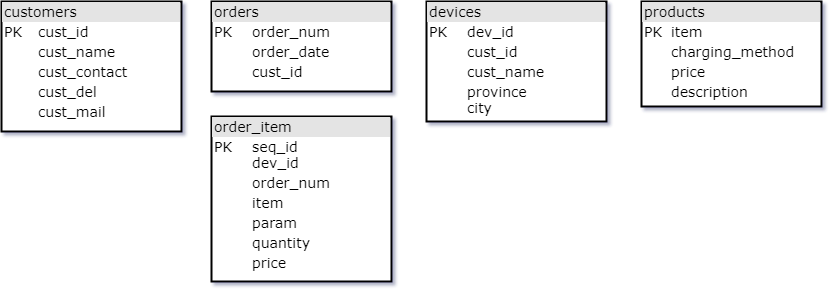
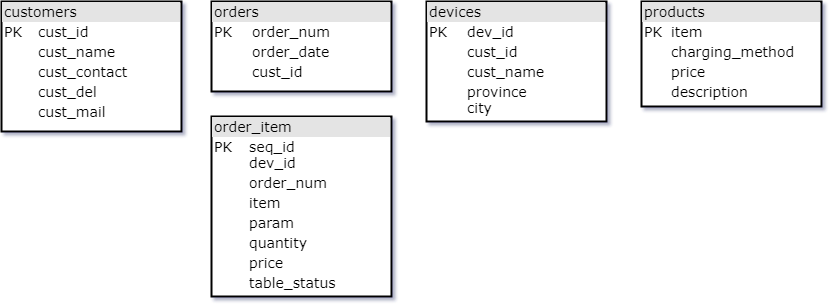
split README into several files as docs
procedure.md marks how classes work
schemas.md marks how databases were designs

diff --git a/README.md b/README.md
@@ -14,130 +14,7 @@ Since the present database configuration is MySQL, the original cache layer arch
 
 ## Overview
 
-### MySQL databases
-
-#### Vendor Database Tables
-
-![vendor_database](assets/dbschemas/vendor_database.png)
-
-##### 1. customers
-
-* This table records basic information of customers.
-
-* Those who don't have orders can still sign up.
-
-* The order number is an auth token that is visable to purchasers.
-
-column | type | null | default | extras | comments
-:--- | :--- | :--- | :--- | :--- | :---
-cust_id | int | no | none | auto_increment | primary key
-cust_name | char(50) | no | none | |
-cust_contact | char(50) | no | none | |
-cust_tel | char(15) | no | none | |
-cust_mail | char(50) | yes | null | |
-
-##### 2. devices
-
-column | type | null | default | extras | comments
-:--- | :--- | :--- | :--- | :--- | :---
-dev_id | char(20) | no | none | | primary key
-cust_name | char(50) | no | none | |
-cust_id | int | no | none | |
-province | char(30) | no | none | |
-city | char(30) | no | none | |
-
-##### 3. orders
-
-column | type | null | default | extras | comments
-:--- | :--- | :--- | :--- | :--- | :---
-order_num | int | no | none | auto_increment | primary key
-order_date | date | no | none | |
-cust_id | int | no | none | |
-
-##### 4. orderitems
-
-* This table lists items in each order.
-
-column | type | null | default | extras | comments
-:--- | :--- | :--- | :--- | :--- | :---
-seq_id | int | no | none | auto_increment | primary key
-dev_id | char(20) | no | none
-order_num | int | no | none | | index
-item | char(30) | no | none | |
-param | char(30) | no | none | |
-quantity | int | no | none | |
-price | float(6,2) | no | none | |
-
-##### 5. products
-
-* This table lists the price of each service.
-
-* The total cost is accumulated according to the magnititude of those parameters requested by the customers.
-
-column | type | null | default | extras | comments
-:--- | :--- | :--- | :--- | :--- | :---
-item | char(30) | no | none | | primary key
-charging method | char(20) | no | none | |
-price | float(6,2) | no | none | |
-description | text | no | none | |
-
-#### Customer database tables
-
-![customer_database](assets/dbschemas/cust_databases.png)
-
-##### 1. information
-
-###### 1. users
-
-* It's optional whether the new customer could provide the system manager registration info when a purchase  is made.
-
-* They can send this message later with an unique code associated with the order number, or simply, just the order num.
-  
-column | type | null | default | extras | comments
-:--- | :--- | :--- | :--- | :--- | :---
-username | char(30) | no | none | for logging in | primary key
-alias | char(30) | yes | null | |
-password | varchar(60) | no | none | encrypted |
-user_tel | char(15) | no | none | |
-user_mail | char(50) | yes | null | |
-group | char(40) | no | none | | primary key
-role | char(20) | no | none | |
-
-###### 2. devices
-
-column | type | null | default | extras | comments
-:--- | :--- | :--- | :--- | :--- | :---
-dev_id | char(20) | no | none | | primary key
-group | char(40) | no | none | |
-
-###### 3. alert_event
-
-column | type | null | default | extras | comments
-:--- | :--- | :--- | :--- | :--- | :---
-dev_id | char(20) | no | none | | primary key
-para | char(20) | no | none | |
-value | float(8,2) | no | none | |
-occur_time | datetime | no | none | | primary key
-
-###### 4. default_values
-
-column | type | null | default | extras | comments
-:--- | :--- | :--- | :--- | :--- | :---
-dev_id | char(20) | no | none | | primary key
-para | char(20) | no | none | |
-val | float(6,2) | no | none | |
-
-##### 2. values
-
-###### value_item
-
-* The name format of those tables is `dev_id_para`
-* No primary keys set for those tables
-
-column | type | null | default | extras | comments
-:--- | :--- | :--- | :--- | :--- | :---
-crt_time | datetime(3) | no | none | |
-val | float(6,2) | no | none | |
+The database schemas is [here](docs/schemas.md). Based on this setting, the procedures doc is [here](docs/procedure.md).
 
 ## Getting Started
 
@@ -173,7 +50,7 @@ End with an example of getting some data out of the system or using it for a lit
         "item_2":{
             "dev_id":"YJSP514",
             "item":"param-high",
-            "param":"voltage-AB",
+            "param":"voltage_AB",
             "quantity":"3"
         }
     }

diff --git a/docs/schemas.md b/docs/schemas.md
@@ -1,0 +1,124 @@
+# Database Schemas
+
+## Vendor Database Tables
+
+![vendor_database](../assets/dbschemas/vendor_database.png)
+
+### 1. customers
+
+* This table records basic information of customers.
+
+* Those who don't have orders can still sign up.
+
+* The order number is an auth token that is visable to purchasers.
+
+column | type | null | default | extras | comments
+:--- | :--- | :--- | :--- | :--- | :---
+cust_id | int | no | none | auto_increment | primary key
+cust_name | char(50) | no | none | |
+cust_contact | char(50) | no | none | |
+cust_tel | char(15) | no | none | |
+cust_mail | char(50) | yes | null | |
+
+### 2. devices
+
+column | type | null | default | extras | comments
+:--- | :--- | :--- | :--- | :--- | :---
+dev_id | char(20) | no | none | | primary key
+cust_name | char(50) | no | none | |
+cust_id | int | no | none | |
+province | char(30) | no | none | |
+city | char(30) | no | none | |
+
+### 3. orders
+
+column | type | null | default | extras | comments
+:--- | :--- | :--- | :--- | :--- | :---
+order_num | int | no | none | auto_increment | primary key
+order_date | date | no | none | |
+cust_id | int | no | none | |
+
+### 4. orderitems
+
+* This table lists items in each order.
+
+column | type | null | default | extras | comments
+:--- | :--- | :--- | :--- | :--- | :---
+seq_id | int | no | none | auto_increment | primary key
+dev_id | char(20) | no | none
+order_num | int | no | none | | index
+item | char(30) | no | none | |
+param | char(30) | no | none | |
+quantity | int | no | none | |
+price | float(6,2) | no | none | |
+
+### 5. products
+
+* This table lists the price of each service.
+
+* The total cost is accumulated according to the magnititude of those parameters requested by the customers.
+
+column | type | null | default | extras | comments
+:--- | :--- | :--- | :--- | :--- | :---
+item | char(30) | no | none | | primary key
+charging method | char(20) | no | none | |
+price | float(6,2) | no | none | |
+description | text | no | none | |
+
+## Customer database tables
+
+![customer_database](../assets/dbschemas/cust_databases.png)
+
+### 1. information
+
+#### 1. users
+
+* It's optional whether the new customer could provide the system manager registration info when a purchase  is made.
+
+* They can send this message later with an unique code associated with the order number, or simply, just the order num.
+  
+column | type | null | default | extras | comments
+:--- | :--- | :--- | :--- | :--- | :---
+username | char(30) | no | none | for logging in | primary key
+alias | char(30) | yes | null | |
+password | varchar(60) | no | none | encrypted |
+user_tel | char(15) | no | none | |
+user_mail | char(50) | yes | null | |
+group | char(40) | no | none | | primary key
+role | char(20) | no | none | |
+
+#### 2. devices
+
+column | type | null | default | extras | comments
+:--- | :--- | :--- | :--- | :--- | :---
+dev_id | char(20) | no | none | | primary key
+group | char(40) | no | none | |
+
+#### 3. alert_event
+
+column | type | null | default | extras | comments
+:--- | :--- | :--- | :--- | :--- | :---
+dev_id | char(20) | no | none | | primary key
+para | char(20) | no | none | |
+value | float(8,2) | no | none | |
+occur_time | datetime | no | none | | primary key
+
+#### 4. default_values
+
+column | type | null | default | extras | comments
+:--- | :--- | :--- | :--- | :--- | :---
+dev_id | char(20) | no | none | | primary key
+para | char(20) | no | none | |
+val | float(6,2) | no | none | |
+
+### 2. values
+
+#### value_item
+
+* The name format of those tables is `dev_id_para`
+* No primary keys set for those tables
+
+column | type | null | default | extras | comments
+:--- | :--- | :--- | :--- | :--- | :---
+crt_time | datetime(3) | no | none | |
+val | float(6,2) | no | none | |

diff --git a/docs/procedure.md b/docs/procedure.md
@@ -1,0 +1,19 @@
+# Procedure
+
+## Vendor
+
+With the information received from customers, vendor creates corresponding databases and tables.
+
+### 1. Customers' signing up info
+
+`Vendor::addCustomer` uses a private method `Vendor::vendorSimpleAdd` to insert customers' info into table `vendor.customers` then uses `Vendor::initCustomerDB` to create a customer database `moni_cust_id`.
+
+### 2. Device list that customers want to monitoring
+
+Create a `Vendor` instance then use `Vendor::addDevice` to add device information.
+
+### 3. Orders that comes with devices' registration
+
+`Vendor::addOrder` adds record to `vendor.orders` and `vendor.order_items`, then based on the boolean value `vendor.order_items.table.status`, `Vendor::addOrder` uses `Vendor::initCustomerDevice` to create tables in database `moni_cust_id`.
+
+## Customer
